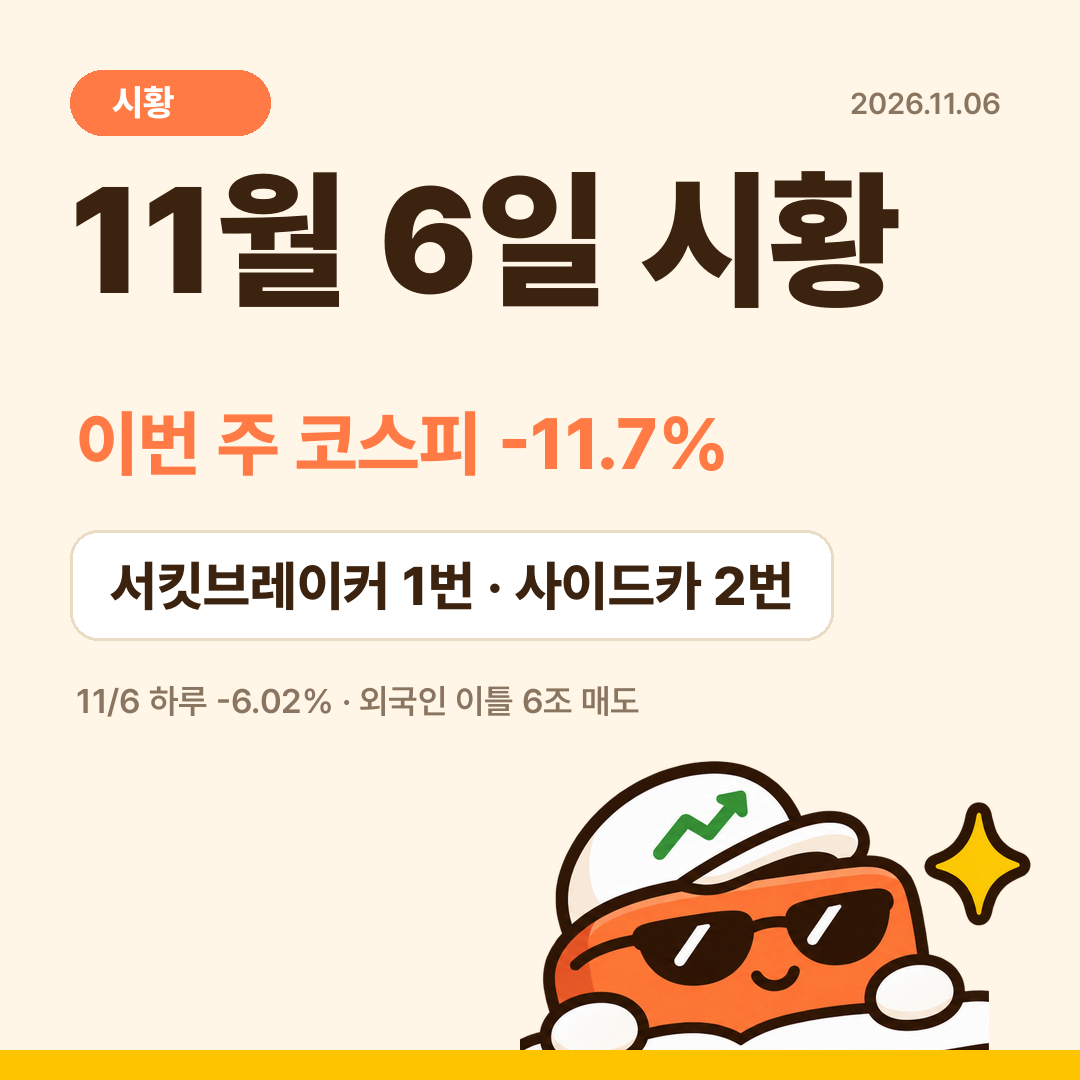
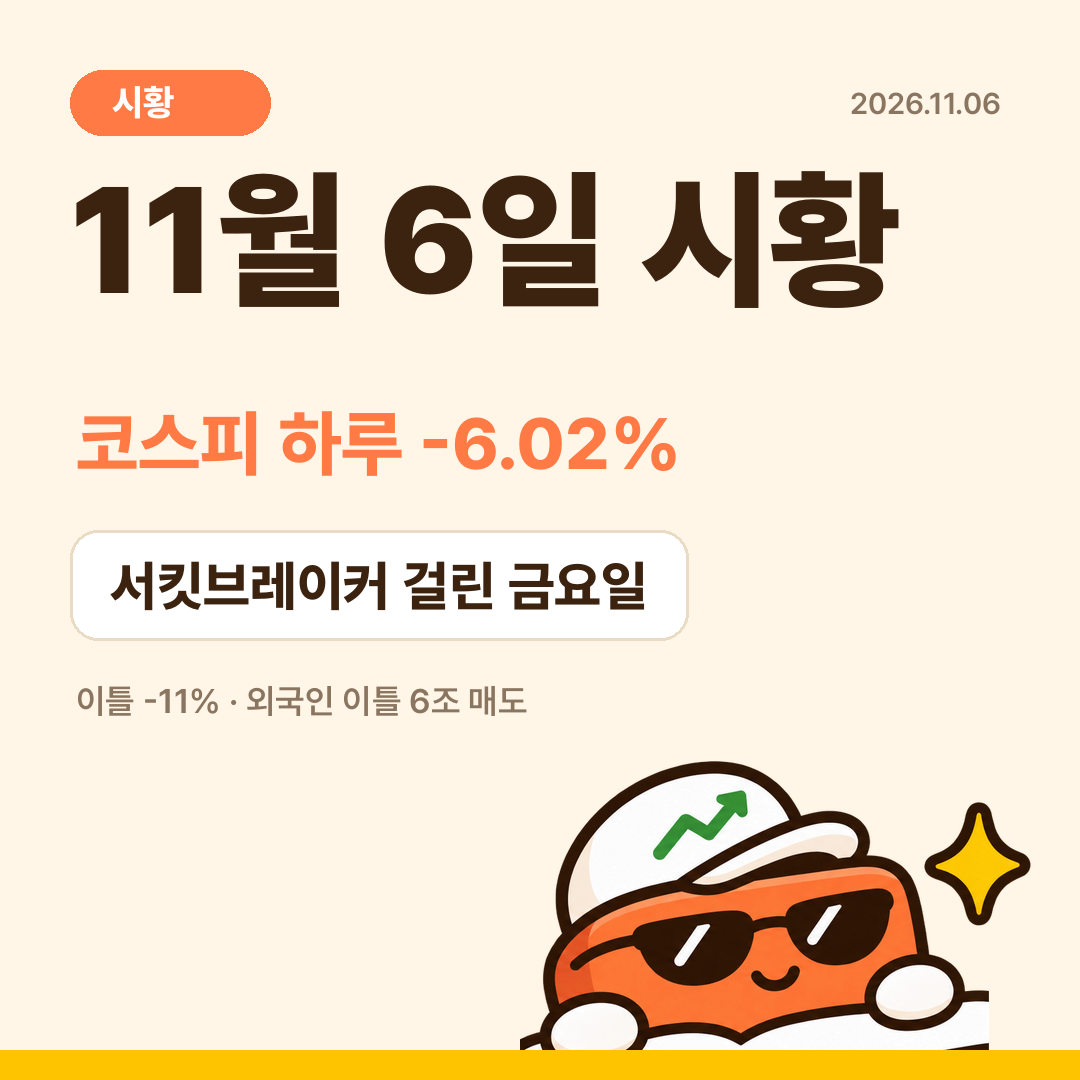
Split weekly market thumbnail from 11/6 daily cards

Changed region(s): [[0.0611, 0.3667, 0.6722, 0.4583], [0.0611, 0.6111, 0.5806, 0.6722], [0.3667, 0.4889, 0.7333, 0.6111]]

diff --git a/scripts/make_market_cards.py b/scripts/make_market_cards.py
@@ -1,4 +1,4 @@
-"""시황 카드 생성기. 썸네일 + 하루 숫자 카드 1장.
+"""시황 카드 생성기. 썸네일 + 하루 숫자 카드 1장(indices가 있을 때).
 
 사용법:
     python3 scripts/make_market_cards.py data/market/<slug>.json   # → market/<slug>/
@@ -77,7 +77,9 @@ def main(path):
         c = json.load(f)
     out = os.path.join(ROOT, "market", c["slug"])
     os.makedirs(out, exist_ok=True)
-    thumbnail(c, out); day_card(c, out)
+    thumbnail(c, out)
+    if "indices" in c:  # 주간 시황은 썸네일만 만들 때가 있다
+        day_card(c, out)
     print("saved to", out)
 
 
